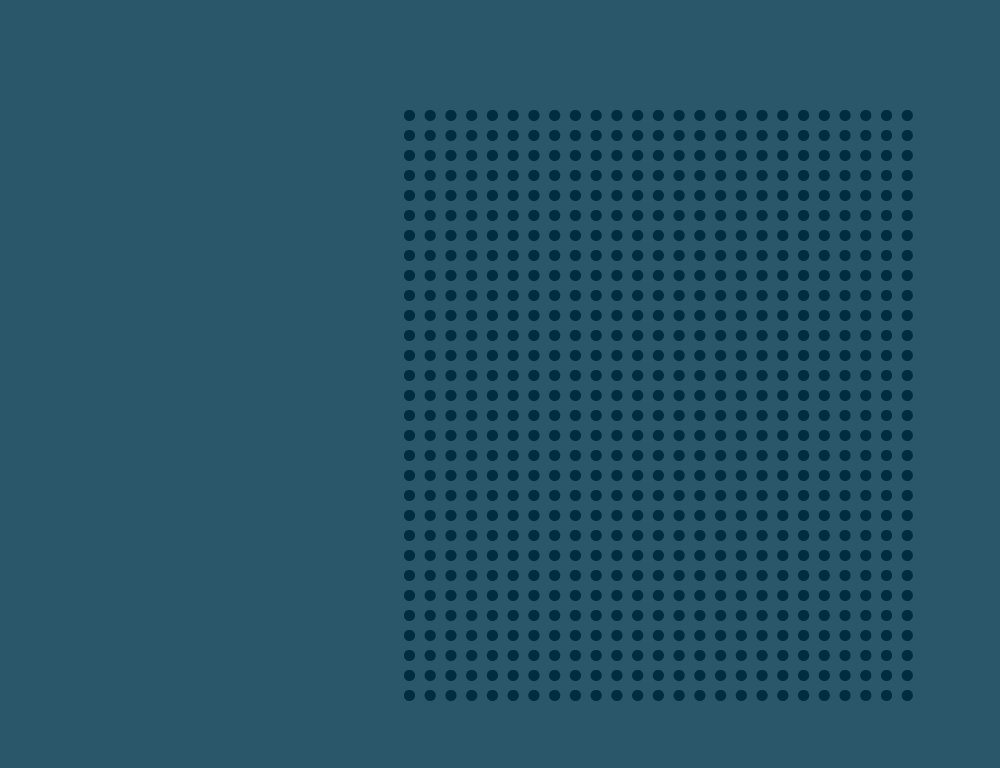
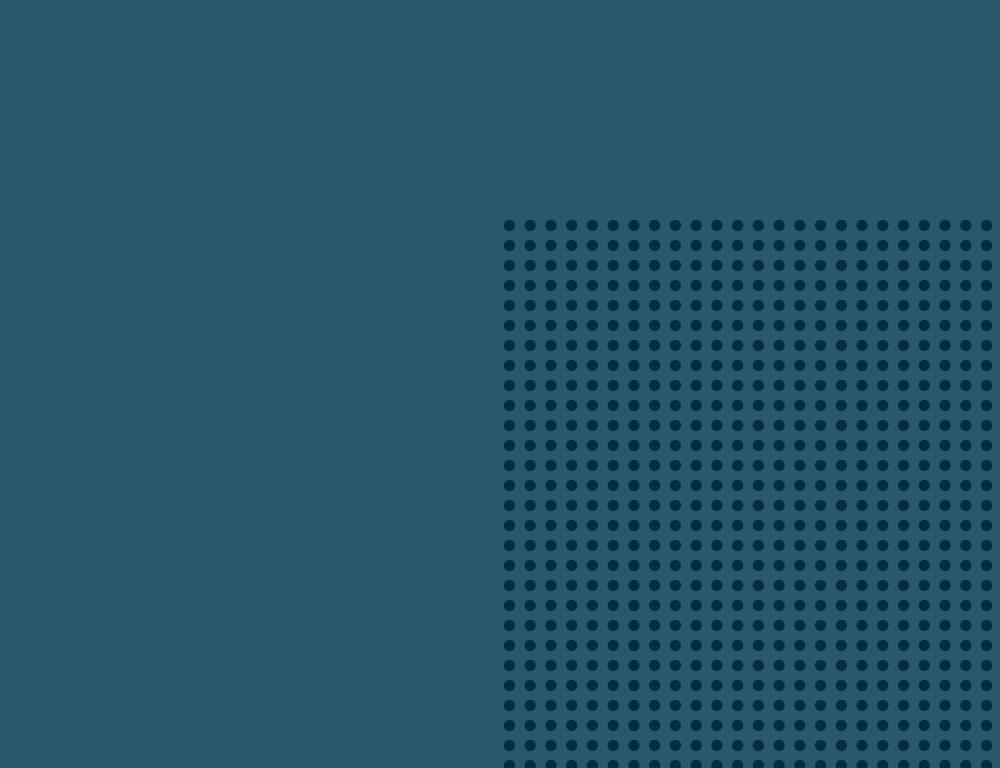
updating the 1000px bg image and updating the background position and the landing bg image

Changed region(s): [[0.403, 0.125, 0.992, 1.0]]

diff --git a/index.html b/index.html
@@ -1664,7 +1664,7 @@
 
 		.bg-image {
 			margin-top: -127px;
-			background-position: 0% !important;
+			background-position: 50% !important;
 		}
 
 		.nav-links {
